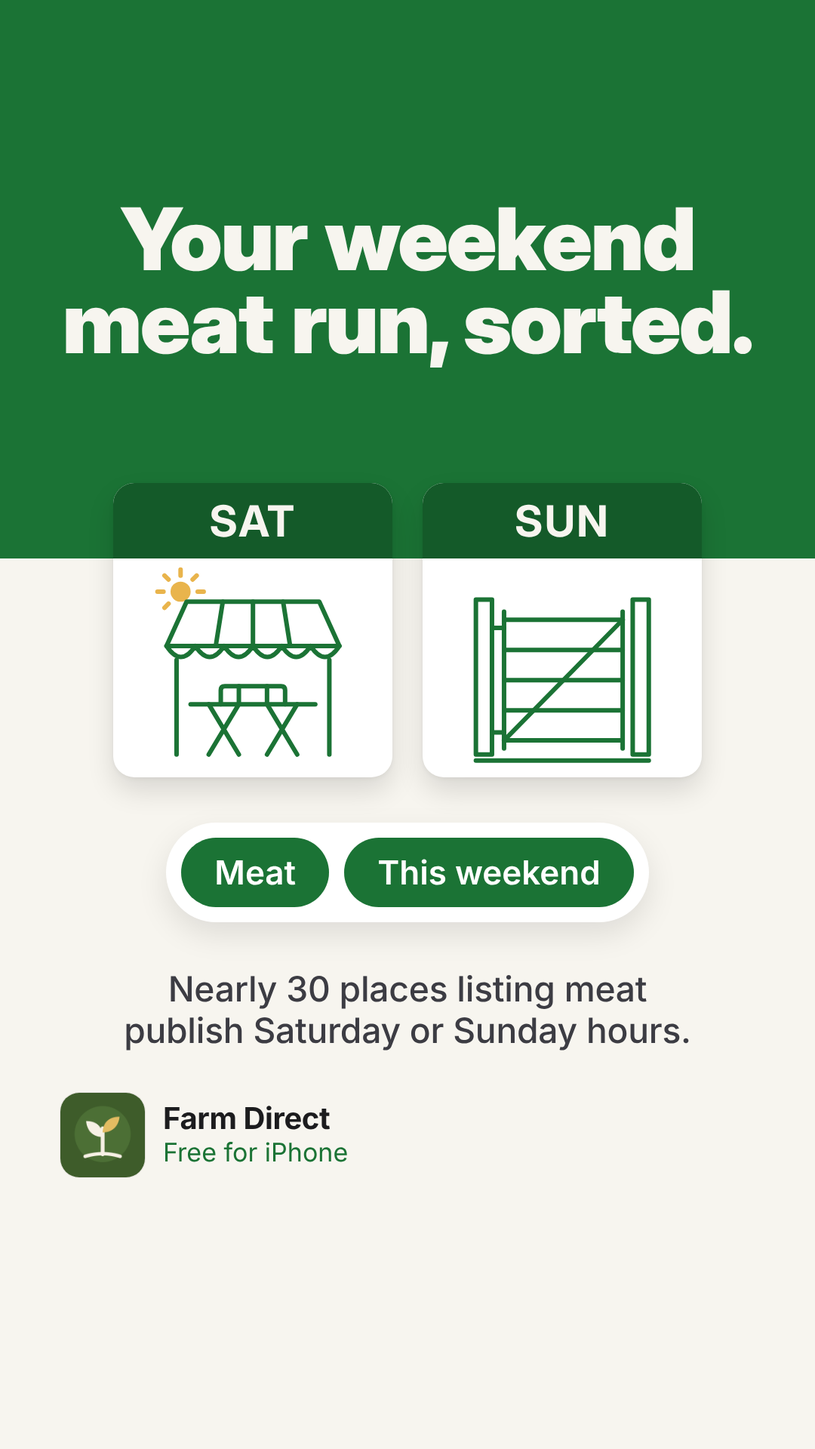
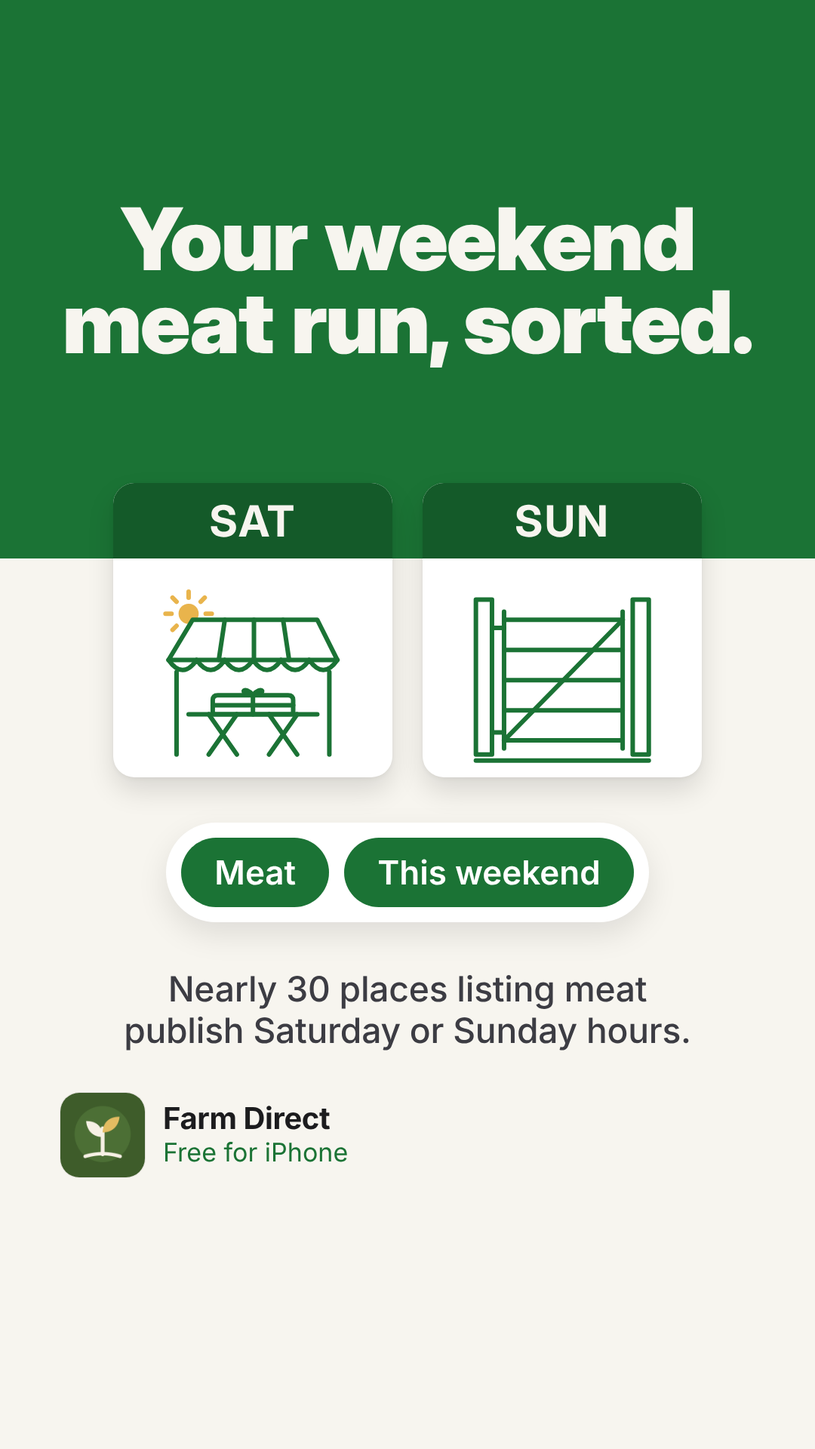
Ads: final versions with real app screenshots
Ads 2 and 5 now show the real Meat-filtered list and the real map
(cropped above Apple's Maps attribution). All five passed a final
visual and claims check; three were corrected. Copy pack, claims table
and contact sheet updated; unused placeholder screens removed.

Claude-Session: https://claude.ai/code/session_01C9g5FmiNRp8oUY2VhpD92J

Changed region(s): [[0.1833, 0.375, 0.4278, 0.5312]]

diff --git a/marketing/ads/05-pin-drive-buy/ad.html b/marketing/ads/05-pin-drive-buy/ad.html
@@ -6,30 +6,31 @@
 <!-- Ad 05 pin-drive-buy. Render: node render.mjs 05-pin-drive-buy
      Ground: dark forest (ad 5 only).
 
-     REVISION NOTE (critique round 1): the phone and 03-map.png have been
-     DROPPED on purpose. shared/screens/03-map.png is still a placeholder
-     (byte-identical to 01) that shows one named place page, not the map, and
-     putting it in the phone made a single named business the hero (rule 4).
-     Per the claims critic's fallback, the focal device is now original
-     drawing only: three large pins on one dotted route over faint contour
-     lines, filling the lower half. No screenshot is used, so the render does
-     not change when the real screens arrive.
+     REVISION 2 (real screens arrived): the focal device is now the real app
+     map, shared/screens/03-map.png (Apple map of the NSW coast with the app's
+     coloured pins and a numbered cluster), in the kit's plain CSS phone
+     outline (.frame-light for the dark ground, .no-status). The drawn pins are
+     reduced to one supporting motif: a dotted route with a single pin whose
+     centre is the ad's one wattle-gold mark.
 
-     The ad's one wattle-gold mark is the centre dot of the largest pin. -->
+     APPLE "MAPS" ATTRIBUTION: in the screenshot it sits at about y 2120-2180
+     (of 2868), lower left. Both sizes crop the screen with the frame's bottom
+     edge (--h) ABOVE that line, so no Apple logo appears:
+       feed:  --w 460, --h 655 -> last visible screenshot row = 170 + 655*1320/460 = 2050
+       story: --w 460, --h 655 -> last visible row            = 170 + 655*1320/460 = 2050
+     If you change --w or --h, keep the last visible row under 2100. -->
 <link rel="stylesheet" href="../shared/kit.css">
 <style>
   /* ---------- Feed 1080x1350 ---------- */
-  .headline { position: absolute; left: var(--margin); top: 100px; }
-  .sub      { position: absolute; left: var(--margin); top: 456px; width: 860px; }
+  .headline { position: absolute; left: var(--margin); top: 88px; }
+  .sub      { position: absolute; left: var(--margin); top: 438px; width: 900px; }
 
-  /* Drawing layer, in artboard pixels */
-  .map-art { position: absolute; left: 0; top: 0; z-index: 1; pointer-events: none; }
-  .contour { fill: none; stroke: rgba(205,232,196,0.10); stroke-width: 5px; stroke-linecap: round; stroke-linejoin: round; }
-  .road    { fill: none; stroke: rgba(247,245,239,0.40); stroke-width: 8px; stroke-linecap: round; stroke-dasharray: 0 24; }
-  .pin-body { fill: var(--green); stroke: var(--offwhite); stroke-width: 6px; stroke-linejoin: round;
-              vector-effect: non-scaling-stroke; }
-  .pin-dot  { fill: var(--offwhite); }
-  .pin-dot.gold { fill: var(--gold); }
+  .map-phone { left: 512px; top: 607px; --w: 460px; --h: 655px; }  /* frame 488 x 683: x 512..1000, y 607..1290 (footer band bottom) */
+
+  .motif { position: absolute; left: 0; top: 0; z-index: 1; pointer-events: none; }
+  .road  { fill: none; stroke: rgba(205,232,196,0.45); stroke-width: 8px; stroke-linecap: round; stroke-dasharray: 0 24; }
+  .pin-body { fill: var(--green); stroke: var(--offwhite); stroke-width: 6px; stroke-linejoin: round; vector-effect: non-scaling-stroke; }
+  .pin-dot  { fill: var(--gold); }
   .pin-shadow { fill: rgba(0,0,0,0.38); }
   .pin { filter: drop-shadow(0 16px 22px rgba(0,0,0,0.30)); }
 
@@ -38,8 +39,9 @@
 
   /* ---------- Story 1080x1920 ---------- */
   .story { --footer-top: 1444px; }
-  .story .headline { top: 326px; }
-  .story .sub      { top: 726px; width: 900px; }
+  .story .headline { top: 282px; }
+  .story .sub      { top: 656px; }
+  .story .map-phone { left: 512px; top: 876px; --w: 460px; --h: 655px; }  /* frame 488 x 683: x 512..1000, y 876..1559 (level with brand icon) */
 </style>
 </head>
 <body>
@@ -53,74 +55,38 @@
 
   <p class="support support-42 sub">About 40 places listing meat, each one pinned on the map.</p>
 
-  <!-- Original drawing (not text): faint contour lines suggest a map; one
-       dotted route runs in from the left edge, touches the tip of each pin
-       and leaves past the right edge. Pin = teardrop 100 x 140 units, tip at
-       (50,136); the outline stays 6 px at every scale (non-scaling stroke). -->
-  <svg class="map-art feed-only" width="1080" height="1350" viewBox="0 0 1080 1350" aria-hidden="true">
+  <!-- Focal device: the real app map in the kit's plain CSS phone outline.
+       Cropped by the frame's bottom edge above Apple's "Maps" attribution. -->
+  <div class="phone crop no-status frame-light map-phone">
+    <img src="../shared/screens/03-map.png" alt="">
+  </div>
+
+  <!-- Supporting motif (drawing, not text): a dotted route runs up the left
+       column into the phone, past one pin. Pin = teardrop 100 x 140 units,
+       tip at (50,136). Gold centre = the ad's one warm mark. -->
+  <svg class="motif feed-only" width="1080" height="1350" viewBox="0 0 1080 1350" aria-hidden="true">
     <defs>
       <path id="pin" d="M50 136 C40 116 8 88 8 50 A42 42 0 0 1 92 50 C92 88 60 116 50 136 Z"/>
     </defs>
-    <path class="contour" d="M-20 700 C 180 660, 340 720, 560 690 S 900 640, 1100 680"/>
-    <path class="contour" d="M-20 820 C 160 790, 300 850, 520 820 S 880 760, 1100 800"/>
-    <path class="contour" d="M600 1350 C 640 1250, 760 1210, 900 1230 S 1060 1200, 1100 1150"/>
-    <path class="contour" d="M720 1350 C 760 1290, 860 1270, 960 1290 S 1070 1270, 1100 1250"/>
-
-    <!-- route through the three tips: (240,1040) (520,940) (830,1090) -->
-    <path class="road" d="M-20 1110 C 80 1090, 170 1060, 240 1040 C 330 1012, 420 960, 520 940 C 640 916, 720 1060, 830 1090 C 940 1120, 1020 1110, 1100 1080"/>
-
-    <!-- ground shadows under each tip -->
-    <ellipse class="pin-shadow" cx="240" cy="1042" rx="30" ry="9"/>
-    <ellipse class="pin-shadow" cx="520" cy="942"  rx="38" ry="11"/>
-    <ellipse class="pin-shadow" cx="830" cy="1092" rx="48" ry="14"/>
-
-    <!-- small pin, 150 px tall, tip at (240,1040) -->
-    <g class="pin" transform="translate(240 1040) scale(1.1719) translate(-50 -136)">
+    <path class="road" d="M150 1080 C 170 1020, 260 985, 290 925"/>
+    <path class="road" d="M290 805 C 300 740, 380 712, 490 712"/>
+    <ellipse class="pin-shadow" cx="290" cy="902" rx="27" ry="9"/>
+    <g class="pin" transform="translate(290 900) scale(0.9) translate(-50 -136)">
       <use href="#pin" class="pin-body"/>
       <circle class="pin-dot" cx="50" cy="50" r="15"/>
-    </g>
-    <!-- medium pin, 190 px tall, tip at (520,940) -->
-    <g class="pin" transform="translate(520 940) scale(1.4844) translate(-50 -136)">
-      <use href="#pin" class="pin-body"/>
-      <circle class="pin-dot" cx="50" cy="50" r="15"/>
-    </g>
-    <!-- large pin, 240 px tall, tip at (830,1090); gold centre = the one warm mark -->
-    <g class="pin" transform="translate(830 1090) scale(1.875) translate(-50 -136)">
-      <use href="#pin" class="pin-body"/>
-      <circle class="pin-dot gold" cx="50" cy="50" r="15"/>
     </g>
   </svg>
 
-  <svg class="map-art story-only" width="1080" height="1920" viewBox="0 0 1080 1920" aria-hidden="true">
+  <svg class="motif story-only" width="1080" height="1920" viewBox="0 0 1080 1920" aria-hidden="true">
     <defs>
       <path id="pin-s" d="M50 136 C40 116 8 88 8 50 A42 42 0 0 1 92 50 C92 88 60 116 50 136 Z"/>
     </defs>
-    <path class="contour" d="M-20 960 C 180 920, 340 990, 560 955 S 900 900, 1100 940"/>
-    <path class="contour" d="M-20 1100 C 160 1065, 300 1135, 520 1100 S 880 1035, 1100 1080"/>
-    <path class="contour" d="M560 1580 C 610 1470, 740 1420, 890 1440 S 1060 1410, 1100 1350"/>
-    <path class="contour" d="M700 1600 C 750 1530, 860 1505, 960 1525 S 1070 1500, 1100 1480"/>
-
-    <!-- route through the tips: (240,1320) (520,1200) (830,1370) -->
-    <path class="road" d="M-20 1395 C 80 1372, 170 1340, 240 1320 C 330 1292, 420 1222, 520 1200 C 650 1172, 720 1336, 830 1370 C 940 1404, 1020 1394, 1100 1360"/>
-
-    <ellipse class="pin-shadow" cx="240" cy="1322" rx="33" ry="10"/>
-    <ellipse class="pin-shadow" cx="520" cy="1202" rx="42" ry="12"/>
-    <ellipse class="pin-shadow" cx="830" cy="1372" rx="53" ry="15"/>
-
-    <!-- small pin 165 px, tip (240,1320) -->
-    <g class="pin" transform="translate(240 1320) scale(1.2891) translate(-50 -136)">
+    <path class="road" d="M150 1366 C 170 1306, 260 1271, 290 1211"/>
+    <path class="road" d="M290 1091 C 300 1026, 380 981, 490 981"/>
+    <ellipse class="pin-shadow" cx="290" cy="1188" rx="27" ry="9"/>
+    <g class="pin" transform="translate(290 1186) scale(0.9) translate(-50 -136)">
       <use href="#pin-s" class="pin-body"/>
       <circle class="pin-dot" cx="50" cy="50" r="15"/>
-    </g>
-    <!-- medium pin 210 px, tip (520,1200) -->
-    <g class="pin" transform="translate(520 1200) scale(1.6406) translate(-50 -136)">
-      <use href="#pin-s" class="pin-body"/>
-      <circle class="pin-dot" cx="50" cy="50" r="15"/>
-    </g>
-    <!-- large pin 265 px, tip (830,1370); gold centre -->
-    <g class="pin" transform="translate(830 1370) scale(2.0703) translate(-50 -136)">
-      <use href="#pin-s" class="pin-body"/>
-      <circle class="pin-dot gold" cx="50" cy="50" r="15"/>
     </g>
   </svg>
 

diff --git a/marketing/ads/02-real-meat-tap/ad.html b/marketing/ads/02-real-meat-tap/ad.html
@@ -6,21 +6,10 @@
 <!-- Ad 02-real-meat-tap. Ground: app pale grey. Focal point: the oversized
      selected Meat filter pill with a tap ripple and one gold fingertip dot.
 
-     PHONE IS OFF BY DEFAULT (data-phone="off" on the artboard).
-     Every file in shared/screens/ except 07 is currently the same single
-     place page for one named, unclaimed business (01-explore included), so
-     showing it would make one real business the hero (brief rule 4) and
-     would contradict "Tap Meat" (it lists no meat). The ad is complete
-     without the phone.
-
-     To bring the phone back once shared/screens/02-explore-meat.png really
-     is the Explore list with the Meat chip selected (several places):
-       1. open 02-explore-meat.png and confirm it is a LIST of several
-          places, not a place page (never 04-place-meat: a single named
-          business and a "grass-fed" raising claim);
-       2. change data-phone="off" to data-phone="on" below;
-       3. node marketing/ads/render.mjs 02-real-meat-tap and look at both PNGs.
-     Preview without editing: ad.html?size=feed&phone=1 (or size=story).
+     PHONE IS ON (data-phone="on"): shared/screens/02-explore-meat.png is the
+     real Explore list with the Meat filter on ("41 places . nearest first",
+     several place cards). Only this screen belongs here; never 04-place-meat
+     (one named business). data-phone="off" still gives the no-phone layout.
 
      Render: node marketing/ads/render.mjs 02-real-meat-tap -->
 <link rel="stylesheet" href="../shared/kit.css">
@@ -54,24 +43,34 @@
   /* Open band y ~710..1448; pill centred at y 1060. */
   .story .tap      { top: 950px; }
 
-  /* ================= PHONE ON (after the real Meat list arrives) =========
-     Phone: 540 px screen, frame x 452..1020 (80 px right margin, matching
-     the left). Frame cropped by its own bottom edge above the footer, so the
-     footer lockup (text ends ~x 460) never sits beside the frame.
-     Pill 340 x 150 ends at x 472: it overlaps only the 14 px border plus
-     6 px, so it never covers the screen's content. Rings pass behind. */
+  /* ================= PHONE ON (real Meat list, 02-explore-meat.png) =====
+     Screen 480 px wide (scale 480/1320). The screenshot is raised a further
+     110 px (screenshot px) beyond .no-status (280 px hidden in all), which
+     trims the blank band above 'Explore'. The frame moves down by the same
+     40 px and --h shrinks by 40, so every line of screen content stays at
+     the same artboard y and the bottom crop still falls in the grey gap
+     between card 2 (ends y 2044) and card 3 (starts y 2080): the phone shows
+     the location row, "41 places . nearest first", the info note and exactly
+     two whole place cards at equal size.
+     Frame 508 x 681, x 512..1020; bottom aligns with the footer band's
+     bottom (feed 1292, story 1560).
+     The Meat pill (340 x 150, x 80..420) sits clear of the phone in the left
+     column, centred on the screenshot's "41 places" line (tap -> result).
+     Outer ring x 40..460: 52 px of grey before the frame (x 512). The gold
+     fingertip sits fully inside the pill at its right end. */
   .shot { display: none; }
-  [data-phone="on"] .shot { display: block; left: 452px; top: 520px; --w: 540px; --h: 592px; } /* frame y 520..1140 */
-  [data-phone="on"] .tap  { left: 132px; top: 755px; --gap1: 24px; --gap2: 48px; }            /* outer ring x 84 */
-  [data-phone="on"] .chip.pill { width: 340px; height: 150px; font-size: 84px; box-shadow: 0 12px 28px rgba(27,115,53,0.26); }
-  [data-phone="on"] .tap .dot-gold { top: calc(100% - 26px); }
-  /* Story: frame y 800..1408, footer 1448..1560 below it; pill centre y 1080 */
-  .story[data-phone="on"] .shot { top: 800px; --h: 580px; }
-  .story[data-phone="on"] .tap  { top: 1005px; }
+  [data-phone="on"] .shot { display: block; left: 512px; top: 611px; --w: 480px; --h: 653px; }
+  [data-phone="on"] .shot > img { margin-top: calc(var(--w) * -280 / 1320); }
+  [data-phone="on"] .tap  { left: var(--margin); top: 760px; --gap1: 20px; --gap2: 40px; }
+  [data-phone="on"] .chip.pill { width: 340px; height: 150px; font-size: 84px; padding: 0 30px 0 0; box-shadow: 0 12px 28px rgba(27,115,53,0.26); }
+  [data-phone="on"] .tap .dot-gold { left: auto; right: 28px; top: calc(50% - 14px); }
+  /* Story: frame y 879..1560 beside the footer (1448..1560). */
+  .story[data-phone="on"] .shot { top: 879px; }
+  .story[data-phone="on"] .tap  { top: 1028px; }
 </style>
 </head>
 <body>
-<div class="artboard feed bg-grey" data-phone="off">
+<div class="artboard feed bg-grey" data-phone="on">
 
   <h1 class="hl hl-120 headline">
     <span class="line">Real meat.</span>

diff --git a/marketing/ads/04-weekend-meat-run/ad.html b/marketing/ads/04-weekend-meat-run/ad.html
@@ -11,7 +11,7 @@
 <style>
   /* Band bottom lands exactly on the divide: tile top = tile-c - tile-h/2; divide = tile top + band. */
   .artboard { --divide: 530px; --tile-w: 330px; --tile-h: 360px; --tile-gap: 40px; --tile-c: 620px; --band: 90px; }
-  .story    { --divide: 740px; --tile-w: 370px; --tile-h: 390px; --tile-c: 835px; --band: 100px; --footer-top: 1450px; }
+  .story    { --divide: 740px; --tile-w: 370px; --tile-h: 390px; --tile-c: 835px; --band: 100px; }
 
   .top { top: 0; height: var(--divide); }
   .headline { position: absolute; left: var(--margin); right: var(--margin); top: 164px; z-index: 2; text-align: center; word-spacing: 0.05em; }
@@ -62,18 +62,20 @@
         <!-- Market awning: scalloped striped canopy over a trestle table with a wrapped parcel -->
         <svg class="art" viewBox="0 0 200 200" aria-hidden="true">
           <!-- Wattle-gold sun tucked behind the canopy's top-left corner: the ad's one warm mark -->
-          <path class="ln gold" d="M28 2 V8 M5 24 H11 M45 24 H51 M12 8 L16 12 M44 8 L40 12 M12 40 L16 36"/>
-          <circle class="gold-fill" cx="28" cy="24" r="10"/>
+          <!-- Top ray at y 24 so the art clears the SAT band like the SUN gate (top y 32) -->
+          <path class="ln gold" d="M36 24 V30 M13 46 H19 M53 46 H59 M20 30 L24 34 M52 30 L48 34 M20 62 L24 58"/>
+          <circle class="gold-fill" cx="36" cy="46" r="10"/>
           <!-- Canopy filled white so it sits in front of the sun -->
-          <path class="ln" style="fill:#fff" d="M34 34 H166 L186 78 H14 Z"/>
-          <path class="ln" d="M14 78 q 14.33 22 28.67 0 q 14.33 22 28.67 0 q 14.33 22 28.67 0 q 14.33 22 28.67 0 q 14.33 22 28.67 0 q 14.33 22 28.67 0"/>
-          <path class="ln" d="M70 34 L63 78 M100 34 V78 M130 34 L137 78"/>
-          <path class="ln" d="M24 92 V186 M176 92 V186"/>
-          <!-- Butcher's-paper parcel tied with string on the trestle -->
-          <path class="ln" d="M68 136 V122 Q68 118 72 118 H128 Q132 118 132 122 V136"/>
-          <path class="ln" d="M86 118 V136 M114 118 V136"/>
-          <path class="ln" d="M38 136 H162"/>
-          <path class="ln" d="M56 136 L86 186 M86 136 L56 186 M114 136 L144 186 M144 136 L114 186"/>
+          <path class="ln" style="fill:#fff" d="M40 52 H164 L184 92 H16 Z"/>
+          <path class="ln" d="M16 92 q 14 20 28 0 q 14 20 28 0 q 14 20 28 0 q 14 20 28 0 q 14 20 28 0 q 14 20 28 0"/>
+          <path class="ln" d="M72 52 L66 92 M101 52 V92 M130 52 L136 92"/>
+          <path class="ln" d="M24 104 V186 M176 104 V186"/>
+          <!-- Butcher's-paper parcel tied with string (cross tie + bow), sitting on the trestle top -->
+          <path class="ln" style="fill:#fff" d="M60 146 V132 Q60 127 65 127 H135 Q140 127 140 132 V146 Z"/>
+          <path class="ln" d="M100 127 V146 M60 137 H140"/>
+          <path class="ln" d="M100 127 C92 117 84 125 100 127 C116 125 108 117 100 127"/>
+          <path class="ln" d="M36 146 H164"/>
+          <path class="ln" d="M56 146 L84 186 M84 146 L56 186 M116 146 L144 186 M144 146 L116 186"/>
         </svg>
       </div>
     </div>

diff --git a/marketing/ads/README.md b/marketing/ads/README.md
@@ -11,12 +11,28 @@ All files are in `out/`. "Feed" is 1080x1350 (4:5). "Story" is 1080x1920 (9:16).
 | # | Files | The idea | On the image | Primary text | Headline | Description | Button |
 |---|---|---|---|---|---|---|---|
 | 1 | `01-paddock-not-petri-feed.png`, `01-paddock-not-petri-story.png` | The bold "real, not lab" poster. One witty line, nobody named or blamed. | From a paddock, not a petri dish. / About 40 places across Australia list beef, lamb, pork or chicken. | From a paddock, not a petri dish. About 40 places across Australia list beef, lamb, pork or chicken. Check before you go. (121) | Meat from a paddock, not a petri dish (37) | Free. No account needed. (24) | Install now |
-| 2 | `02-real-meat-tap-feed.png`, `02-real-meat-tap-story.png` | The defiant line, backed by the one button you press: Meat. | Real meat. Real farmers. / Tap Meat for about 40 places listing beef, lamb, pork or chicken. / [Meat button] | Real meat. Real farmers. Tap Meat and see about 40 places listing beef, lamb, pork or chicken. Free, no sign-up. (112) | Tap Meat. Find the farmer. (26) | Beef, lamb, pork and chicken (28) | Install now |
+| 2 | `02-real-meat-tap-feed.png`, `02-real-meat-tap-story.png` | The defiant line, backed by the one button you press: Meat. | Real meat. Real farmers. / Tap Meat for about 40 places listing beef, lamb, pork or chicken. / [Meat button] / [app screenshot: Meat list, "41 places · nearest first", 2 places] | Real meat. Real farmers. Tap Meat and see about 40 places listing beef, lamb, pork or chicken. Free, no sign-up. (112) | Tap Meat. Find the farmer. (26) | Beef, lamb, pork and chicken (28) | Install now |
 | 3 | `03-meat-with-postcode-feed.png`, `03-meat-with-postcode-story.png` | Real meat comes from a real place. Search a town or postcode; ask the farmer the rest. | Meat with a postcode. / Search a town or postcode for meat. Ask the farmer the rest. / BEEF · LAMB · PORK · CHICKEN | Enter a town or postcode to find the nearest of about 40 places listing beef, lamb, pork or chicken. Ask the farmer the rest. (125) | Meat with a postcode (20) | Search by town or postcode (26) | Download |
 | 4 | `04-weekend-meat-run-feed.png`, `04-weekend-meat-run-story.png` | The Saturday market or farm-shop run, planned with the Meat and This weekend filters. | Your weekend meat run, sorted. / SAT, SUN / [Meat] [This weekend] / Nearly 30 places listing meat publish Saturday or Sunday hours. | Plan the weekend meat run: turn on Meat and This weekend, check the published hours, get directions. Free, no account. (118) | Weekend meat run, sorted (24) | Check hours before you go (25) | Download |
-| 5 | `05-pin-drive-buy-feed.png`, `05-pin-drive-buy-story.png` | The map, for road trips and caravans: every place is a pin, tap for hours and directions. | Pin it. Drive there. Buy direct. / About 40 places listing meat, each one pinned on the map. | Driving through? About 40 places listing beef, lamb, pork or chicken, each pinned on the map with hours and directions. (119) | Pin it. Drive there. Buy direct. (32) | Free. No sign-up. (17) | Install now |
+| 5 | `05-pin-drive-buy-feed.png`, `05-pin-drive-buy-story.png` | The map, for road trips and caravans: every place is a pin, tap for hours and directions. | Pin it. Drive there. Buy direct. / About 40 places listing meat, each one pinned on the map. / [app screenshot: map of the NSW coast with pins] | Driving through? About 40 places listing beef, lamb, pork or chicken, each pinned on the map with hours and directions. (119) | Pin it. Drive there. Buy direct. (32) | Free. No sign-up. (17) | Install now |
 
 Numbers in brackets are character counts. Meta's limits we work to: primary text 125, headline 40, description 30. All five are inside them. Every image also carries the footer "Farm Direct / Free for iPhone" with the app icon.
+
+## The app screenshots
+
+Two ads show real iPhone screenshots of the finished app, each inside a plain drawn phone outline (no Apple device artwork). The files are in `shared/screens/` (1320x2868); `shared/screens/README.txt` says how to replace them.
+
+| Ad | Screenshot | What shows on the ad |
+|---|---|---|
+| 2 `02-real-meat-tap` | `02-explore-meat.png` (Explore list, Meat filter on) | Search field, "Sydney NSW 2000", "Filters 1", "41 places · nearest first", the app's "From public sources and not yet confirmed by their owners. Check with the place before you travel." note, and two whole place cards at the same size (Carriageworks Farmers Market and Kiama Farmers' Market). The crop stops before the third card. |
+| 5 `05-pin-drive-buy` | `03-map.png` (map) | The NSW coast with coloured pins and a "2" cluster, and the "Sydney NSW 2000" and "Filters" capsules. Only towns and national parks are named. Cropped at about row 2050 of 2868, above Apple's "Maps" attribution, so no Apple logo appears. |
+
+Ads 1, 3 and 4 use type and simple drawings only. `01-explore.png` (the unfiltered list of all 106 places) is not used in any ad; only the kit's `shared/template.html` uses it.
+
+Two things to know about the screenshots:
+
+- The map in ad 5 is the default map of all places, not a Meat-filtered one, so its pins are not a count of meat places. The ad only says the meat places are each pinned on the map, which is true.
+- The list in ad 2 shows two real businesses by name, at equal size, as part of a list. Neither is the hero and neither has endorsed the ad. If either place leaves the listings or stops listing beef, take a new screenshot.
 
 ## Where each claim comes from
 
@@ -30,6 +46,8 @@ Every number comes from the app's own list of places, `src/data/realListings.jso
 | By meat | beef 28, lamb 23, pork 18, chicken 16 |
 | "Nearly 30 places listing meat publish Saturday or Sunday hours" | 29 of the 41 have weekly hours that include a Saturday or Sunday |
 | "Each one pinned on the map" | All 41 have a map position |
+| "41 places · nearest first" in the ad 2 screenshot | The app's Meat filter count; matches the 41 meat records |
+| Places on the ad 2 screenshot | Carriageworks Farmers Market (Eveleigh, NSW) and Kiama Farmers' Market (Kiama, NSW) are both farmers' markets that list beef |
 | "Search a town or postcode" | All 41 have a postcode; search by name, town, postcode or produce is in `docs/APP_STORE.md` |
 | Meat button, This weekend filter | The labels "Meat" and "This weekend" are in `src/components/FilterPanel.tsx` |
 | Hours and directions | Place pages show hours (or "by appointment"); Directions opens Apple Maps (`docs/APP_STORE.md`) |
@@ -61,11 +79,11 @@ These rules keep the ads honest and inside the Australian Consumer Law and Meta'
 
 - **No claims about how the animals were raised, or about quality, health, price or safety.** No "grass-fed", "free-range", "organic", "hormone-free", "healthier", "cheaper" or "safer". Farm Direct lists places from public sources; it doesn't check any of that. The ads tell people to ask the farmer instead ("Ask the farmer the rest").
 - **"Real, not lab" is positioning, not a claim about anyone else.** "From a paddock, not a petri dish" and "Real meat. Real farmers." say what Farm Direct is about. The ads never say or hint that supermarkets, brands, scientists or the government are selling, hiding or pushing lab-grown meat, and there is no health or safety scare. No lab, scientist or petri dish is drawn.
-- **No named business is the hero, and no endorsement is implied.** The listings are not yet confirmed by their owners, so no farm or market appears by name.
+- **No named business is the hero, and no endorsement is implied.** The listings are not yet confirmed by their owners, so no farm or market is named in the ad text. The only names that appear are two places on the app's own list screen in ad 2, shown together at the same size, with the app's "not yet confirmed by their owners" note above them.
 - **Honest numbers.** "About 40" for 41, "Nearly 30" for 29. Nothing says there is a place in every town or near you.
-- **Apple rules.** No Apple logo, no App Store badge, no picture of an iPhone. "Free for iPhone" is plain text.
+- **Apple rules.** No Apple logo, no App Store badge, no picture of an iPhone. Screenshots sit in a plain drawn outline, and the map is cropped above Apple's "Maps" attribution. "Free for iPhone" is plain text.
 - **Meta rules.** No "Are you...?" lines about the viewer, no shock images, no before/after, no swearing, and all text is at least 34 px so it reads on a phone.
-- **Only original artwork.** No stock photos and no AI photos. Everything is type, colour, simple drawings made for these ads, and the app icon.
+- **Only original artwork.** No stock photos and no AI photos. Everything is type, colour, simple drawings made for these ads, the app icon and real screenshots of the app.
 - **Australian English throughout.**
 
 ## Re-rendering
@@ -80,7 +98,7 @@ node contact-sheet.mjs   # rebuilds out/contact-sheet.png
 
 `render.mjs` prints every file with its size and warns about text outside the safe areas or too small.
 
-**About the app screenshots.** The files in `shared/screens/` are still placeholders (01 to 06 are the same picture). None of the five finished ads shows a screenshot today, so swapping in the real screens changes nothing on its own. Ad 2 is ready to show a phone with the Meat-filtered list: once the real `shared/screens/02-explore-meat.png` is in, check it shows several places (not one business), change `data-phone="off"` to `data-phone="on"` in `02-real-meat-tap/ad.html`, run `node render.mjs`, and look at both PNGs. You can preview it first by opening `02-real-meat-tap/ad.html?size=feed&phone=1` in a browser.
+**If you replace a screenshot**, keep the same file name and size (1320x2868), run `node render.mjs`, and look at ads 2 and 5 again: the ad 2 crop must still end between two cards and show at least two places at equal size, and the ad 5 crop must still stop above Apple's "Maps" attribution.
 
 ## Sizes
 
@@ -109,5 +127,5 @@ Suggested pairings: ad 1 and ad 2 for broad reach; ad 3 for regional households;
 
 1. The app is live on the App Store.
 2. Re-run the count above; change any wording that no longer holds.
-3. `node render.mjs`, then look at all ten PNGs.
+3. `node render.mjs` and `node contact-sheet.mjs`, then look at all ten PNGs, including the screenshots in ads 2 and 5.
 4. Paste the copy from `ads.json` (or the table above) into Meta Ads Manager.
